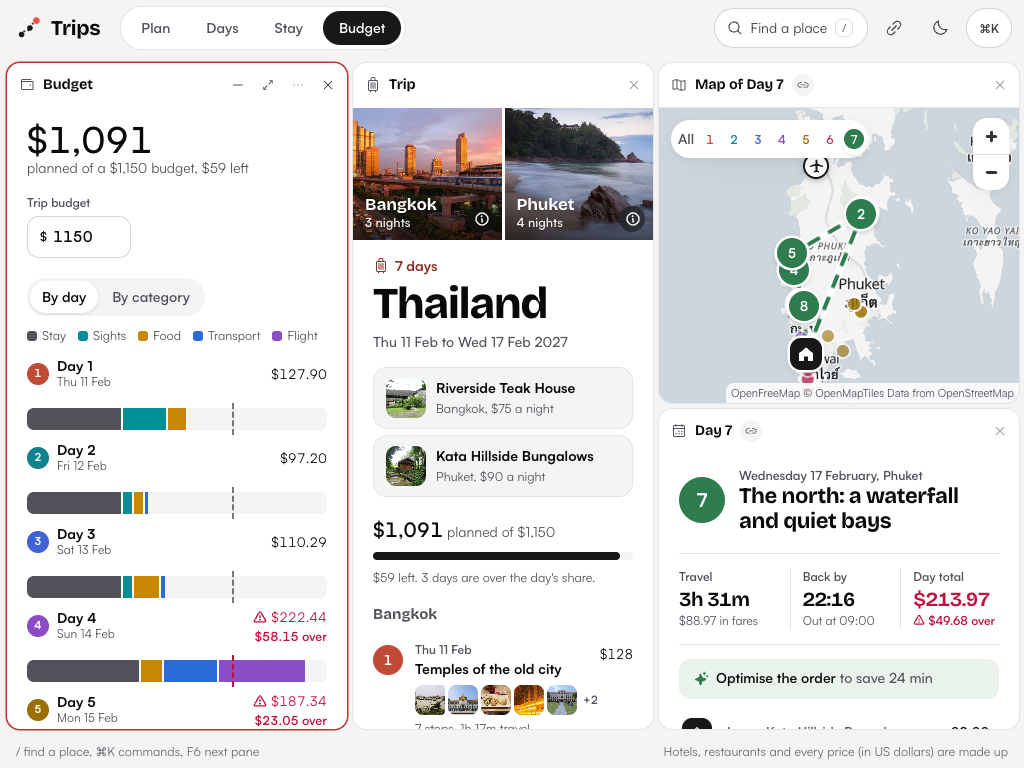
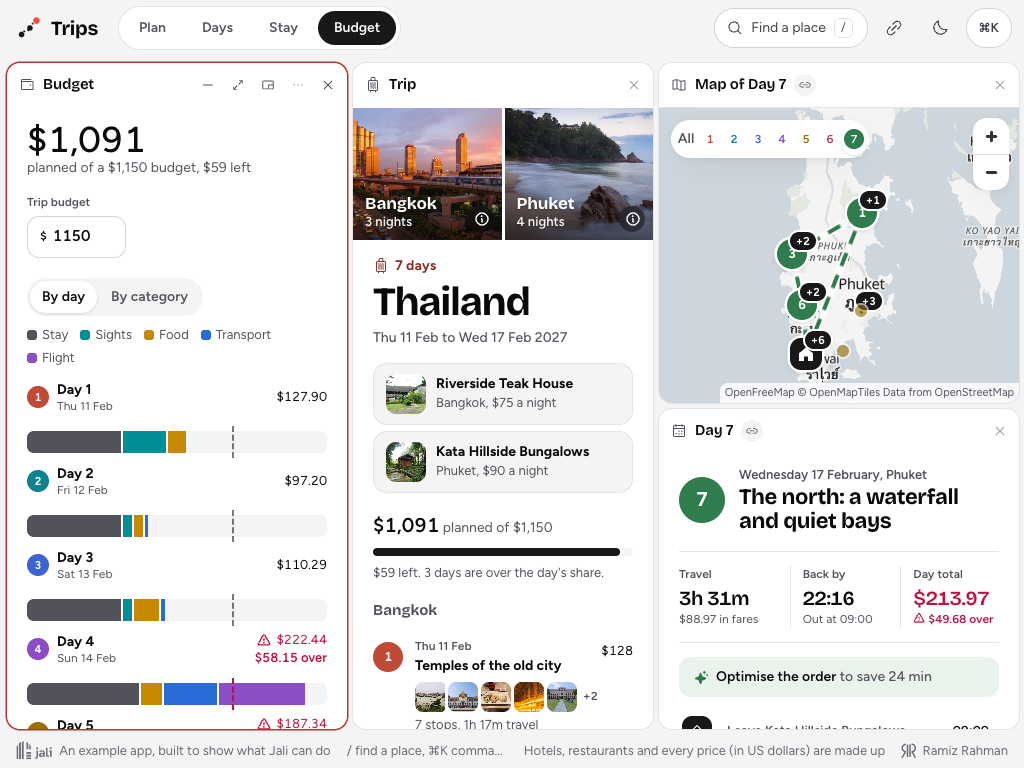
Trips: screenshots written by a spec, again with Figtree and today's map
The map is aria-busy while its tiles load, so a screenshot (or a screen reader)
can tell when it is drawn. SCREENS=1 runs e2e/screens.spec.ts, which waits for
that, the fonts and the photos on screen, and writes the fourteen screenshots.

diff --git a/examples/trips/e2e/screens.spec.ts b/examples/trips/e2e/screens.spec.ts
@@ -1,0 +1,66 @@
+/**
+ * The screenshots in screens/: each layout at 1440, 1024 and 390 pixels wide, and Plan and Stay in dark.
+ * Only with SCREENS=1: `SCREENS=1 pnpm exec playwright test -c examples/trips screens`.
+ */
+import { join } from "node:path";
+import { expect, test, type Page } from "@playwright/test";
+
+test.skip(!process.env.SCREENS, "SCREENS=1 writes the screenshots");
+
+/** screens/<name>.png, beside e2e/. */
+const shot = (name: string) => join(test.info().project.testDir, "..", "screens", `${name}.png`);
+
+const SIZES = [
+  { width: 1440, height: 900 },
+  { width: 1024, height: 768 },
+  { width: 390, height: 844 },
+] as const;
+const LAYOUTS = ["Plan", "Days", "Stay", "Budget"] as const;
+
+/** The layout at rest: chosen, its map's tiles and the photos on screen loaded, the fonts in, and two frames drawn. */
+async function stage(page: Page, name: string, dark: boolean) {
+  await page.emulateMedia({ colorScheme: dark ? "dark" : "light", reducedMotion: "reduce" });
+  await page.goto("/");
+  await expect(page.locator(".jali-pane").first()).toBeVisible();
+  const key = page.getByRole("navigation", { name: "Layouts" }).getByRole("button", { name });
+  // A phone picks the layout from a menu instead.
+  if (await key.isVisible()) await key.click();
+  else
+    await page
+      .getByRole("combobox", { name: "Layout", exact: true })
+      .selectOption(name.toLowerCase());
+  await expect(page.locator("html")).toHaveAttribute("data-theme", dark ? "dark" : "light");
+  // Every map on screen has drawn its tiles (it is busy until then).
+  for (const map of await page.getByRole("region", { name: /^Map\. / }).all())
+    if (await map.isVisible())
+      await expect(map).not.toHaveAttribute("aria-busy", "true", { timeout: 20_000 });
+  await page.evaluate(async () => {
+    await document.fonts.ready;
+    // The photos on screen; one further down a list loads lazily, and may never.
+    const onScreen = (img: HTMLImageElement) => {
+      const r = img.getBoundingClientRect();
+      return r.bottom > 0 && r.top < innerHeight && r.right > 0 && r.left < innerWidth;
+    };
+    await Promise.all(
+      Array.from(document.images)
+        .filter((img) => !img.complete && onScreen(img))
+        .map((img) => img.decode().catch(() => null)),
+    );
+    await new Promise((done) => requestAnimationFrame(() => requestAnimationFrame(done)));
+  });
+}
+
+for (const size of SIZES)
+  for (const name of LAYOUTS)
+    test(`${name} at ${size.width}`, async ({ page }) => {
+      await page.setViewportSize(size);
+      await stage(page, name, false);
+      await page.screenshot({ path: shot(`${name.toLowerCase()}-${size.width}`) });
+    });
+
+for (const name of ["Plan", "Stay"])
+  test(`${name} at 1440, dark`, async ({ page }) => {
+    await page.setViewportSize(SIZES[0]);
+    await stage(page, name, true);
+    await page.screenshot({ path: shot(`${name.toLowerCase()}-1440-dark`) });
+  });

diff --git a/examples/trips/src/panes/map.tsx b/examples/trips/src/panes/map.tsx
@@ -341,6 +341,11 @@ function MapPane({ params, paused, node, inPeek }: PaneProps<typeof mapParams>) 
     surface.tabIndex = 0;
     surface.setAttribute("role", "region");
     surface.setAttribute("aria-label", "Map. Arrow keys pan, plus and minus zoom.");
+    // Busy while tiles load, until everything in view is drawn (or failed to load: the map says so).
+    surface.setAttribute("aria-busy", "true");
+    map.on("dataloading", () => surface.setAttribute("aria-busy", "true"));
+    map.on("idle", () => surface.removeAttribute("aria-busy"));
+    map.on("error", () => surface.removeAttribute("aria-busy"));
     mapRef.current = map;
 
     // The pins are laid out again whenever the map moves or changes size: what overlaps changes with the zoom, and
